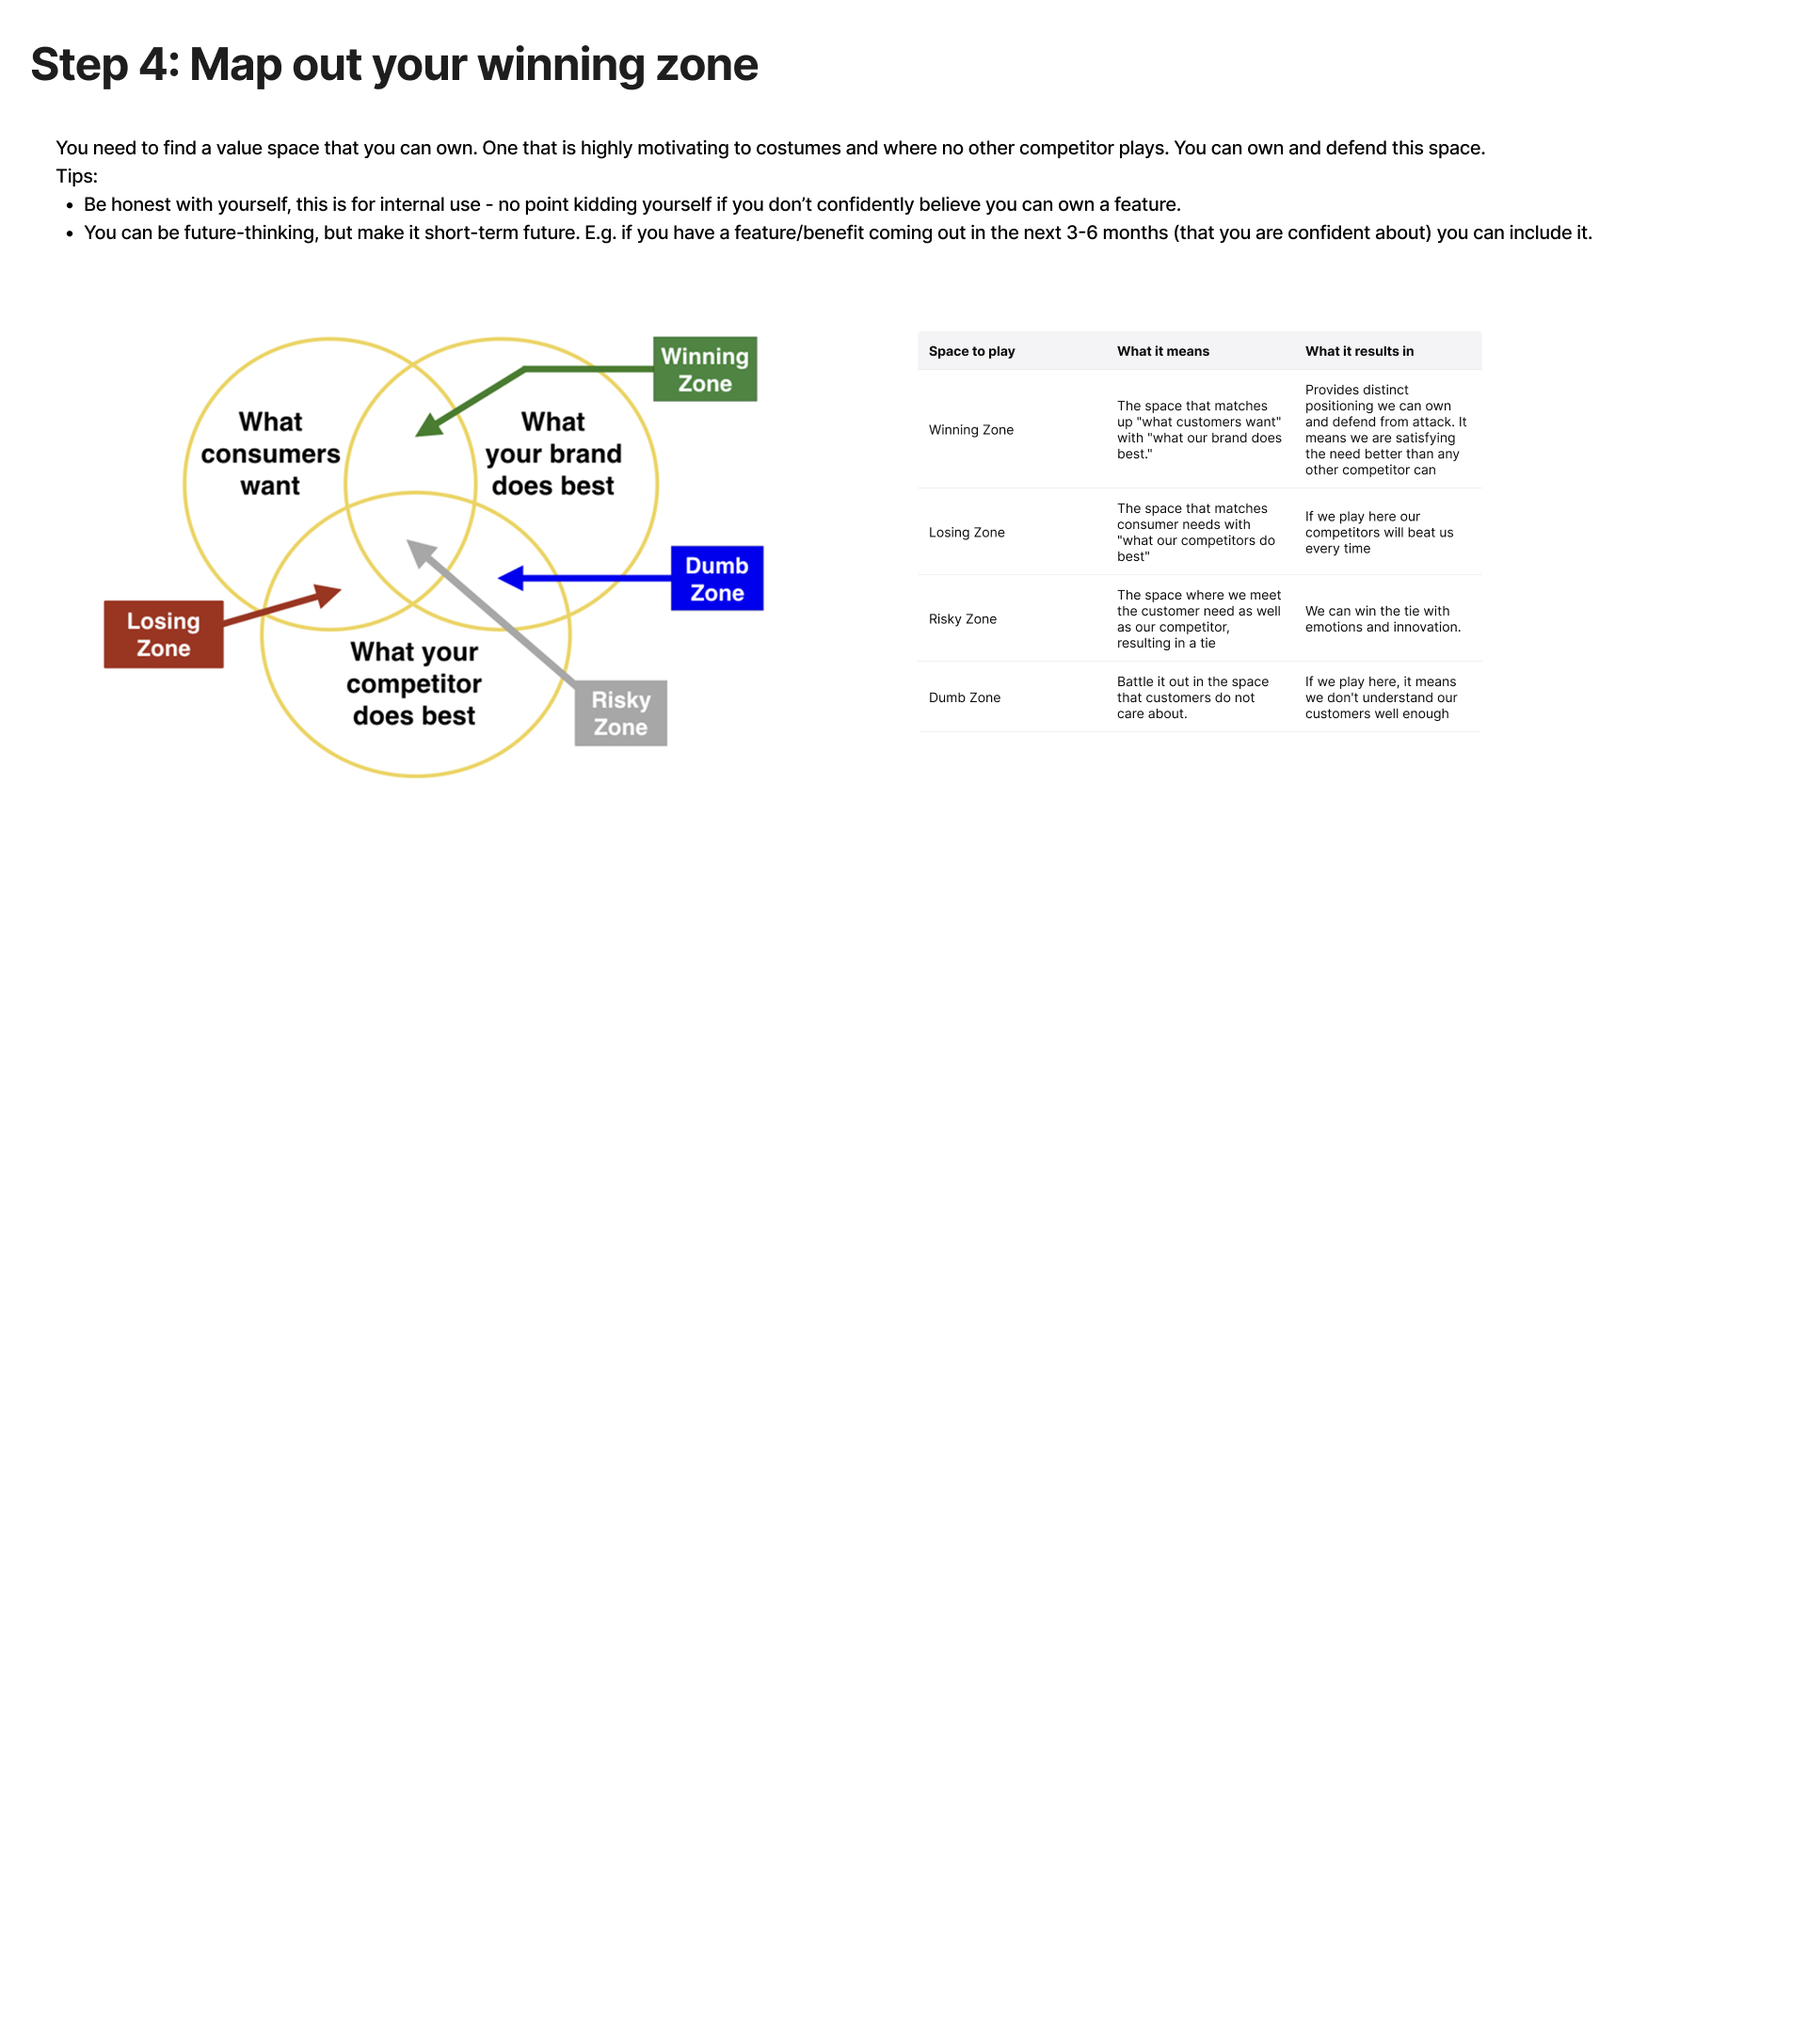
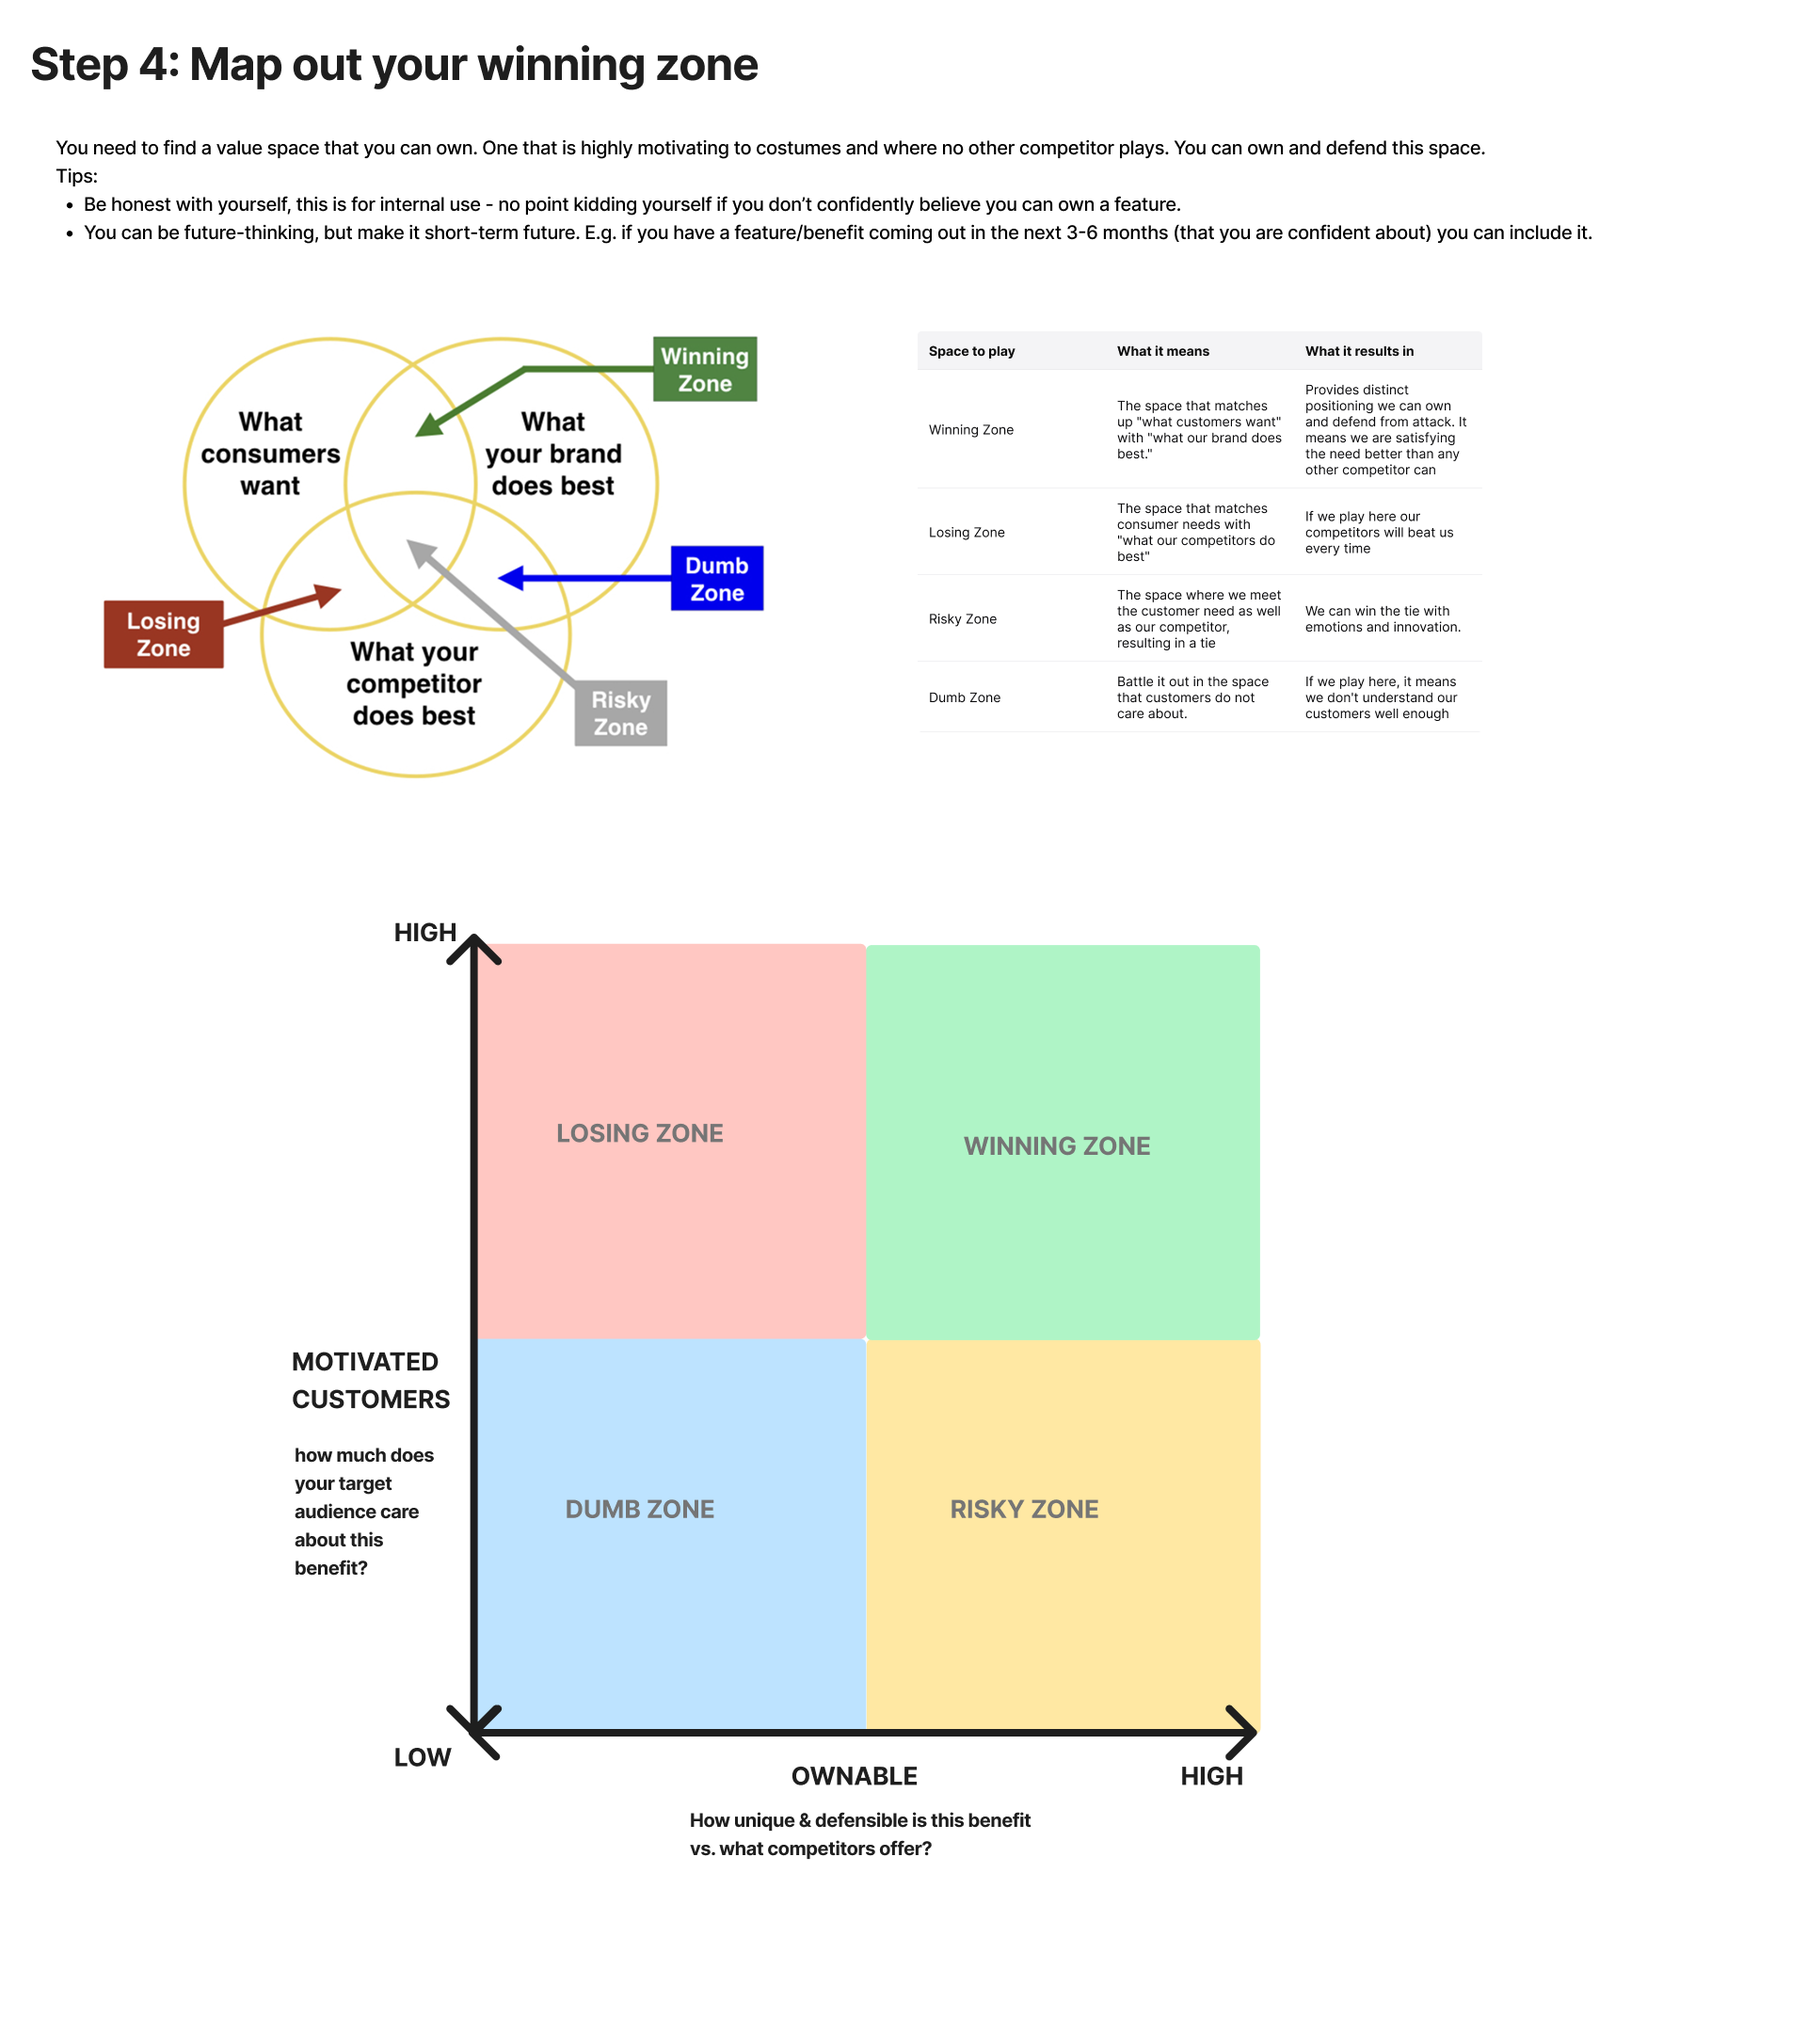
fix: typos

Changed region(s): [[0.1562, 0.4653, 0.7188, 0.9306], [0.2188, 0.4343, 0.25, 0.4653]]

diff --git a/README.md b/README.md
@@ -5,7 +5,7 @@
 1. Target Profile
 
 > [!TIP]
-> We're going to creat clawdbot as a service, ignoring the actual technology, come up with a brand profile using this attached image
+> We're going to create clawdbot as a service, ignoring the actual technology, come up with a brand profile using this attached image
 >
 > - https://clawdhub.com
 > - https://clawdhub.com/skills
@@ -17,7 +17,7 @@ We're going to create a <product>, build the brand target profile following the 
 - consumer vs b2b
 - add references to websites
 - "this for that"
-- any high level ideas your beleive
+- any high level ideas you believe
 ```
 
 ![Target Profile](images/1.png)
@@ -25,7 +25,7 @@ We're going to create a <product>, build the brand target profile following the 
 2. Product Features
 
 ```
-Okay lets talk features, lets list all of teh potential project features that would be amazing for a consumer
+Okay let's talk features, let's list all of the potential project features that would be amazing for a consumer based following the attached image?
 ```
 
 ![Product Features](images/2.png)
@@ -34,7 +34,7 @@ Okay lets talk features, lets list all of teh potential project features that wo
 3. Features to Benefits
 
 ```
-Next, turn our features into benefits following this process in the photo
+Next, turn our features into benefits following the attached image?
 ```
 
 ![Features to Benefits](images/3.png)
@@ -43,7 +43,7 @@ Next, turn our features into benefits following this process in the photo
 4. Winning Zone
 
 ```
-Our next step is to map our our winning zone, how will our AI service outperform everyone else in the winning zone?
+Our next step is to map our our winning zone, how will our AI service outperform everyone else in the winning zone following the attached image?
 ```
 
 ![Winning Zone](images/4.png)
@@ -51,7 +51,7 @@ Our next step is to map our our winning zone, how will our AI service outperform
 5. Brand Persona
 
 ```
-Now based on this, lets chose a primary and secondary brand persona
+Now based on this, let's choose a primary and secondary brand persona following the attached image
 ```
 
 ![Brand Persona](images/5.png)
@@ -62,7 +62,7 @@ Now based on this, lets chose a primary and secondary brand persona
 Translate this into brand guidelines, tone of voice examples, and create visual direction
 ```
 
-7. Webiste
+7. Website
 
 ```
 Research Aura.build and some of it's most popular templates. Create a prompt that I can put into v0.app that will allow me to create an amazingly rich visually appealing landing page.
@@ -86,5 +86,5 @@ Look at the remotion accounts and this sample project and come up with a series 
 * https://gist.github.com/JonnyBurger/5b801182176f1b76447901fbeb5a84ac
 * https://www.remotion.dev
 
-We need the prompts for a complete marking video
+We need the prompts for a complete marketing video
 ```
